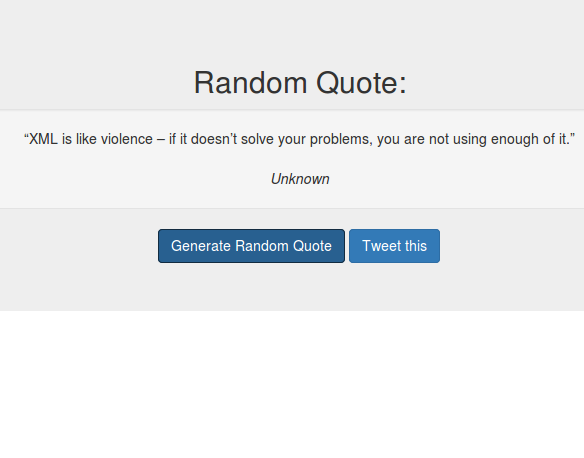
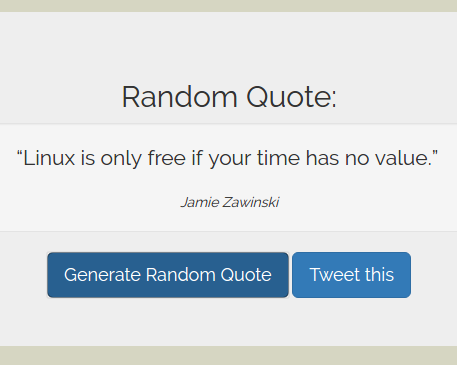
add new random quote thumb

diff --git a/index.htm b/index.htm
@@ -7,8 +7,8 @@
     <meta charset="utf-8">
     <meta name="viewport" content="width=device-width, initial-scale=1">
 
-
     <link href="styles.css" rel="stylesheet" type="text/css">
+    <link href="https://fonts.googleapis.com/css?family=Raleway" rel="stylesheet">
     <script src="https://ajax.googleapis.com/ajax/libs/jquery/1.12.4/jquery.min.js"></script>
     <script src="http://maxcdn.bootstrapcdn.com/bootstrap/3.3.7/js/bootstrap.min.js"></script>
     <link rel="stylesheet" href="http://maxcdn.bootstrapcdn.com/bootstrap/3.3.7/css/bootstrap.min.css">
@@ -16,108 +16,106 @@
 
 </head>
 
-<body>
-<div id="main" class="container-fluid">
-    <nav class="navbar navbar-inverse navbar-fixed-top">
-        <div class="container-fluid">
-            <div class="navbar-header">
-                <button type="button" class="navbar-toggle" data-toggle="collapse" data-target="#myNavbar">
-                    <span class="icon-bar"></span>
-                    <span class="icon-bar"></span>
-                    <span class="icon-bar"></span>
-                </button>
-                <a class="navbar-brand" href="#">Adrien Atallah - Personal Portfolio</a>
+
+    <body id="main" class="container-fluid">
+        <nav class="navbar navbar-inverse navbar-fixed-top">
+            <div class="container-fluid">
+                <div class="navbar-header">
+                    <button type="button" class="navbar-toggle" data-toggle="collapse" data-target="#myNavbar">
+                        <span class="icon-bar"></span>
+                        <span class="icon-bar"></span>
+                        <span class="icon-bar"></span>
+                    </button>
+                    <a class="navbar-brand" href="#">Adrien Atallah - Personal Portfolio</a>
+                </div>
+                <div>
+                    <div class="collapse navbar-collapse navbar-right" id="myNavbar">
+                        <ul class="nav navbar-nav">
+                            <li class="active"><a href="#">About</a></li>
+                            <li><a href="#technologies">Technologies</a></li>
+                            <li><a href="#projects">Projects</a></li>
+                            <li><a href="#connect">Connect</a></li>
+                            <li class="dropdown"><a class="dropdown-toggle" data-toggle="dropdown" href="#">Download Resume<span class="caret"></span></a>
+                                <ul class="dropdown-menu navbar-right">
+                                    <li><a href="https://github.com/AdrienAtallah/AdrienAtallah.github.io/raw/master/resume/AdrienAtallah_Resume.pdf" target="_blank">pdf</a></li>
+                                    <li><a href="https://github.com/AdrienAtallah/AdrienAtallah.github.io/raw/master/resume/AdrienAtallah_Resume.doc" target="_blank">doc</a></li>
+                                </ul>
+                            </li>
+                        </ul>
+                    </div>
+                </div>
             </div>
-            <div>
-                <div class="collapse navbar-collapse navbar-right" id="myNavbar">
-                    <ul class="nav navbar-nav">
-                        <li class="active"><a href="#">About</a></li>
-                        <li><a href="#technologies">Technologies</a></li>
-                        <li><a href="#projects">Projects</a></li>
-                        <li><a href="#connect">Connect</a></li>
-                        <li class="dropdown"><a class="dropdown-toggle" data-toggle="dropdown" href="#">Download Resume<span class="caret"></span></a>
-                            <ul class="dropdown-menu navbar-right">
-                                <li><a href="https://github.com/AdrienAtallah/AdrienAtallah.github.io/raw/master/resume/AdrienAtallah_Resume.pdf" target="_blank">pdf</a></li>
-                                <li><a href="https://github.com/AdrienAtallah/AdrienAtallah.github.io/raw/master/resume/AdrienAtallah_Resume.doc" target="_blank">doc</a></li>
-                            </ul>
-                        </li>
-                    </ul>
+        </nav>
+
+        <!-- Begin Intro section -->
+        <div class="container-fluid jumbotron" id="intro">
+            <h2>About</h2>
+            <div class="row">
+                <div class="col-sm-3">
+                    <img id="profilePic" class="figure-img img-thumbnail" src="https://github.com/AdrienAtallah/AdrienAtallah.github.io/blob/master/images/Cropped.png?raw=true" alt="me-profile-pic">
+                </div>
+
+                <div id="introText" class="col-sm-9">
+                    <p class="lead">I am a junior software/web developer with a background in computational physics.</p>
+
+                    <p> I completed my master's degree in computational physics from San Diego State University in May 2015 where I was part of a collaboration working on a computational model of a neutron star. All of my coding was done in Fortran on a Linux machine. </p>
+
+                    <p> In 2010, I was fortunate enough to be chosen for an internship at the European Organization of Nuclear Research (CERN) where I performed a study on the signal to noise ratio of the ATLAS experiment's pixel detector for the Large Hadron Collider. </p>
+
+                    <p> Since graduating I have been teaching Mathematics, Physics and Computer Science at High Bluff Academy, a private high school in San Diego, California.</p>
+
+                    <p>I am primarily self taught as a web developer and am currently working towards a Full Stack Development Certification through Free Code Camp. I am also working on a certificate in Data Science through John Hopkin's University (Coursera). </p>
+                    <p> I am always eager to further my skillset and keep up with the latest technologies. </p>
                 </div>
             </div>
         </div>
-    </nav>
+        <!--end Intro section -->
 
-    <!-- Begin Intro section -->
-    <div class="container-fluid jumbotron" id="intro">
-        <h2>About</h2>
-        <div class="row">
-            <div class="col-sm-3">
-                <img id="profilePic" class="figure-img img-thumbnail" src="https://github.com/AdrienAtallah/AdrienAtallah.github.io/blob/master/images/Cropped.png?raw=true" alt="me-profile-pic">
-            </div>
+        <!--begin technologies section-->
+        <div id="technologies" class="container-fluid jumbotron">
+            <h2>Technologies</h2>
+            <!-- <div class="col-sm-8"> -->
+            <!-- <h2 class="text-default">Technologies</h2> -->
+            <div class="panel-group">
+                <div class="panel panel-primary">
+                    <div class="panel-heading"><h4>Languages</h4></div>
+                    <div class="panel-body">
+                        <h4>
+                            <span class="label label-default">HTML5</span>
+                            <span class="label label-default">CSS3</span>
+                            <span class="label label-default">JavaScript</span>
+                            <span class="label label-default">R</span>
+                            <span class="label label-default">Fortran 90/95</span>
+                            <span class="label label-default">C++</span>
+                            <span class="label label-default">Java</span>
+                            <span class="label label-default">Bash Shell</span>
+                        </h4>
+                    </div>
+                </div><br>
+                <div class="panel panel-primary">
+                    <div class="panel-heading"><h4>Frameworks</h4></div>
+                    <div class="panel-body">
+                        <h4>
+                            <span class="label label-default">jQuery</span>
+                            <span class="label label-default">Bootstrap 3.*</span>
 
-            <div id="introText" class="col-sm-9">
-                <p class="lead">I am a junior software/web developer with a background in computational physics.</p>
-
-                <p> I completed my master's degree in computational physics from San Diego State University in May 2015 where I was part of a collaboration working on a computational model of a neutron star. All of my coding was done in Fortran on a Linux machine. </p>
-
-                <p> In 2010, I was fortunate enough to be chosen for an internship at the European Organization of Nuclear Research (CERN) where I performed a study on the signal to noise ratio of the ATLAS experiment's pixel detector for the Large Hadron Collider. </p>
-
-                <p> Since graduating I have been teaching Mathematics, Physics and Computer Science at High Bluff Academy, a private high school in San Diego, California.</p>
-
-                <p>I am primarily self taught as a web developer and am currently working towards a Full Stack Development Certification through Free Code Camp. I am also working on a certificate in Data Science through John Hopkin's University (Coursera). </p>
-                <p> I am always eager to further my skillset and keep up with the latest technologies. </p>
-            </div>
-        </div>
-    </div>
-    <!--end Intro section -->
-
-    <!--begin technologies section-->
-    <div id="technologies" class="container-fluid jumbotron">
-        <h2>Technologies</h2>
-        <!-- <div class="col-sm-8"> -->
-        <!-- <h2 class="text-default">Technologies</h2> -->
-        <div class="panel-group">
-            <div class="panel panel-primary">
-                <div class="panel-heading"><h4>Languages</h4></div>
-                <div class="panel-body">
-                    <h4>
-                        <span class="label label-default">HTML5</span>
-                        <span class="label label-default">CSS3</span>
-                        <span class="label label-default">JavaScript</span>
-                        <span class="label label-default">R</span>
-                        <span class="label label-default">Fortran 90/95</span>
-                        <span class="label label-default">C++</span>
-                        <span class="label label-default">Java</span>
-                        <span class="label label-default">Bash Shell</span>
-                    </h4>
-                </div>
-            </div><br>
-            <div class="panel panel-primary">
-                <div class="panel-heading"><h4>Frameworks</h4></div>
-                <div class="panel-body">
-                    <h4>
-                        <span class="label label-default">jQuery</span>
-                        <span class="label label-default">Bootstrap 3.*</span>
-
-                    </h4>
-                </div>
-            </div><br>
-            <div class="panel panel-primary">
-                <div class="panel-heading"><h4>Tools</h4></div>
-                <div class="panel-body">
-                    <h4>
-                        <span class="label label-default">Git</span>
-                        <span class="label label-default">Sublime Text/Atom Text</span>
-                        <span class="label label-default">Photoshop</span>
-                        <span class="label label-default">MATLAB</span>
-                        <span class="label label-default">Mathematica</span>
-                    </h4>
+                        </h4>
+                    </div>
+                </div><br>
+                <div class="panel panel-primary">
+                    <div class="panel-heading"><h4>Tools</h4></div>
+                    <div class="panel-body">
+                        <h4>
+                            <span class="label label-default">Git</span>
+                            <span class="label label-default">Sublime Text/Atom Text</span>
+                            <span class="label label-default">Photoshop</span>
+                            <span class="label label-default">MATLAB</span>
+                            <span class="label label-default">Mathematica</span>
+                        </h4>
+                    </div>
                 </div>
             </div>
         </div>
-        <!-- </div> -->
-
-    </div>
     <!--end technologies section-->
 
     <!--begin projects section-->
@@ -173,53 +171,50 @@
                     </div>
 
                     <!-- <div class="item">
-                        <img src="img_flower2.jpg" alt="Flower" width="460" height="345">
-                        <div class="carousel-caption">
-                            <h3>Chania</h3>
-                            <p>The atmosphere in Chania has a touch of Florence and Venice.</p>
-                        </div>
-                    </div> -->
+                    <img src="img_flower2.jpg" alt="Flower" width="460" height="345">
+                    <div class="carousel-caption">
+                    <h3>Chania</h3>
+                    <p>The atmosphere in Chania has a touch of Florence and Venice.</p>
                 </div>
-
-                <!-- Left and right controls -->
-                <a class="left carousel-control" href="#projectsCarousel" role="button" data-slide="prev">
-                    <span class="glyphicon glyphicon-chevron-left" aria-hidden="true"></span>
-                    <span class="sr-only">Previous</span>
-                </a>
-                <a class="right carousel-control" href="#projectsCarousel" role="button" data-slide="next">
-                    <span class="glyphicon glyphicon-chevron-right" aria-hidden="true"></span>
-                    <span class="sr-only">Next</span>
-                </a>
-            </div>
+            </div> -->
         </div>
+
+        <!-- Left and right controls -->
+        <a class="left carousel-control" href="#projectsCarousel" role="button" data-slide="prev">
+            <span class="glyphicon glyphicon-chevron-left" aria-hidden="true"></span>
+            <span class="sr-only">Previous</span>
+        </a>
+        <a class="right carousel-control" href="#projectsCarousel" role="button" data-slide="next">
+            <span class="glyphicon glyphicon-chevron-right" aria-hidden="true"></span>
+            <span class="sr-only">Next</span>
+        </a>
     </div>
-
-    <!--begin contact section-->
-    <div id="connect" class="container-fluid jumbotron">
-        <h2>Connect</h2>
-        <div id="buttons">
-            <a href="https://www.linkedin.com/in/adrienatallah" target="_blank" class="btn btn-default btn-info">
-                <span class="glyphicon social social-linked-in"></span> LinkedIn
-            </a>
-
-            <a href="mailto:AdrienAtallah@gmail.com" target="_blank" class="btn btn-default btn-info">
-                <span class="glyphicon glyphicon-envelope"></span> Email
-            </a>
-
-            <a href="https://github.com/AdrienAtallah" target="_blank" class="btn btn-default btn-info"> Github</a>
-
-            <a href="https://freecodecamp.com/AdrienAtallah" target="_blank" class="btn btn-default btn-info"> Free Code Camp</a>
-        </div>
-    </div>
-    <!--end contact section-->
-
-    <footer>
-        <p id="credit">Coded By: <a href="https://github.com/adrienatallah" target="_blank">Adrien Atallah</a>.</p>
-    </footer>
 </div>
-</body>
+</div>
+<!--end projects section-->
 
+<!--begin connect section-->
+<div id="connect" class="container-fluid jumbotron">
+    <h2>Connect</h2>
+    <div id="buttons">
+        <a href="https://www.linkedin.com/in/adrienatallah" target="_blank" class="btn btn-default btn-info">
+            <span class="glyphicon social social-linked-in"></span> LinkedIn
+        </a>
 
+        <a href="mailto:AdrienAtallah@gmail.com" target="_blank" class="btn btn-default btn-info">
+            <span class="glyphicon glyphicon-envelope"></span> Email
+        </a>
+
+        <a href="https://github.com/AdrienAtallah" target="_blank" class="btn btn-default btn-info"> Github</a>
+
+        <a href="https://freecodecamp.com/AdrienAtallah" target="_blank" class="btn btn-default btn-info"> Free Code Camp</a>
+    </div>
+</div>
+<!--end connect section-->
+
+<footer>
+    <p id="credit">Coded By: <a href="https://github.com/adrienatallah" target="_blank">Adrien Atallah</a>.</p>
+</footer>
 
 
 <script type="text/javascript">
@@ -251,5 +246,5 @@ $(function() {
 
 });
 </script>
-
+</body>
 </html>

diff --git a/styles.css b/styles.css
@@ -1,8 +1,8 @@
 #main {
   position: relative;
-  margin: 60px;
+  margin-top: 20px;
   background-color: #e0ebeb;
-  font-family: "Times New Roman", Georgia;
+  font-family: Raleway, "Georgia";
 }
 
 #intro{
@@ -19,8 +19,8 @@
 #technologies{
   padding-top: 50px;
   /*height: 700px;*/
-  height:100vh;
-  color: #000;
+  //height:100vh;
+  //color: #000;
   background-color: #d6d6c2;
   align: justify;
 }
@@ -29,11 +29,14 @@
  // padding-top: 50px;
  // color: #000;
   background-color: #d6d6c2;
+  //height:100vh;
 }
 
 #carousel-pic{
-    width: 500px;
+    //width: 500px;
     height: 500px;
+    width: auto;
+    //height: auto;
 }
 
 .carousel-inner > .item > img,
@@ -73,7 +76,7 @@
   bottom: 0px;
 }
 
-footer {
+#credit{
 	position: absolute;
 	bottom: 0px;
 }
